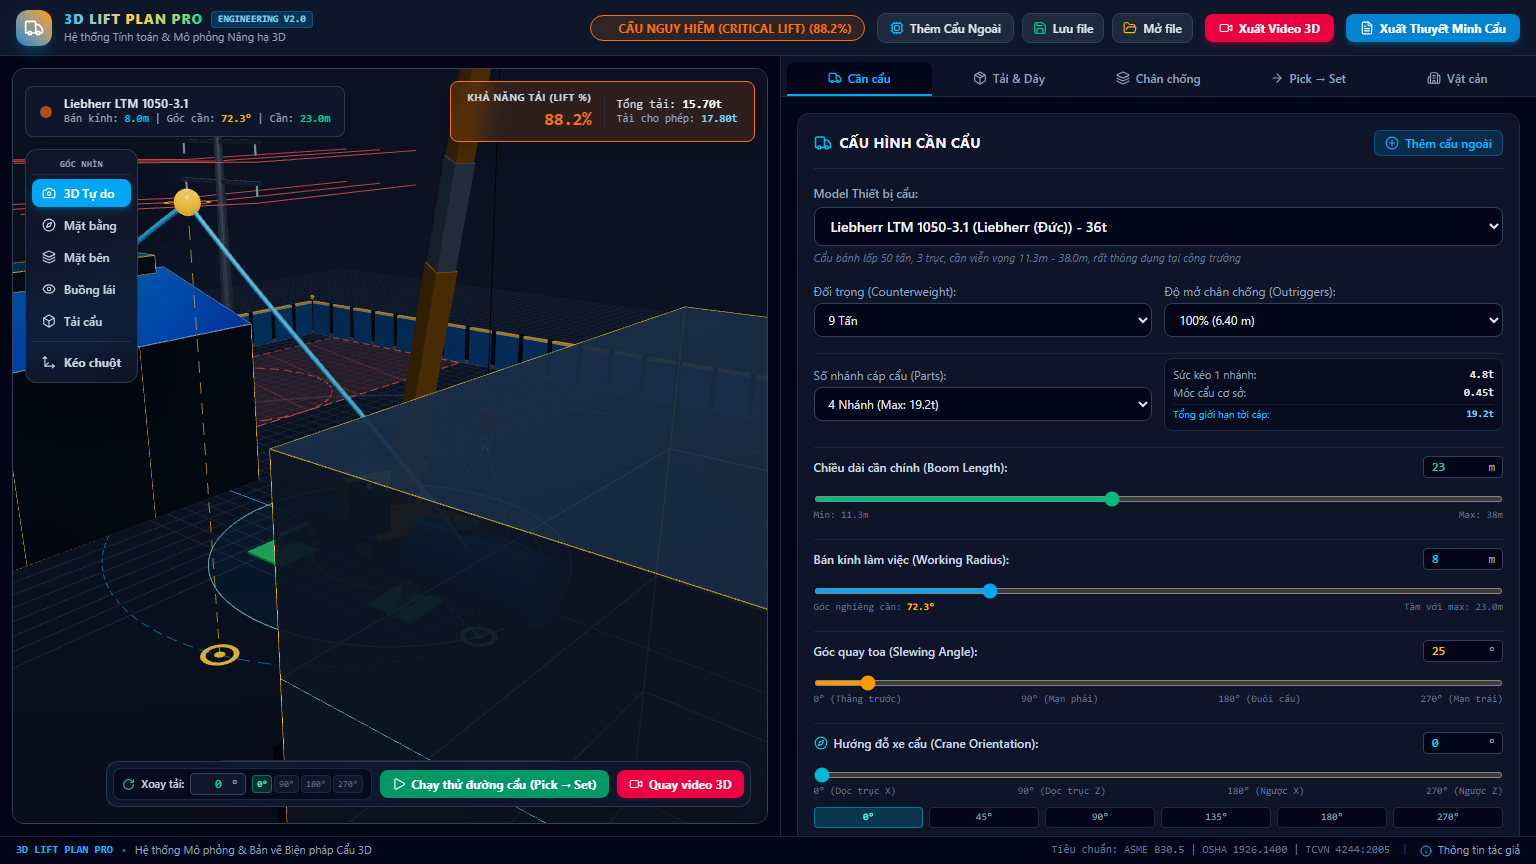
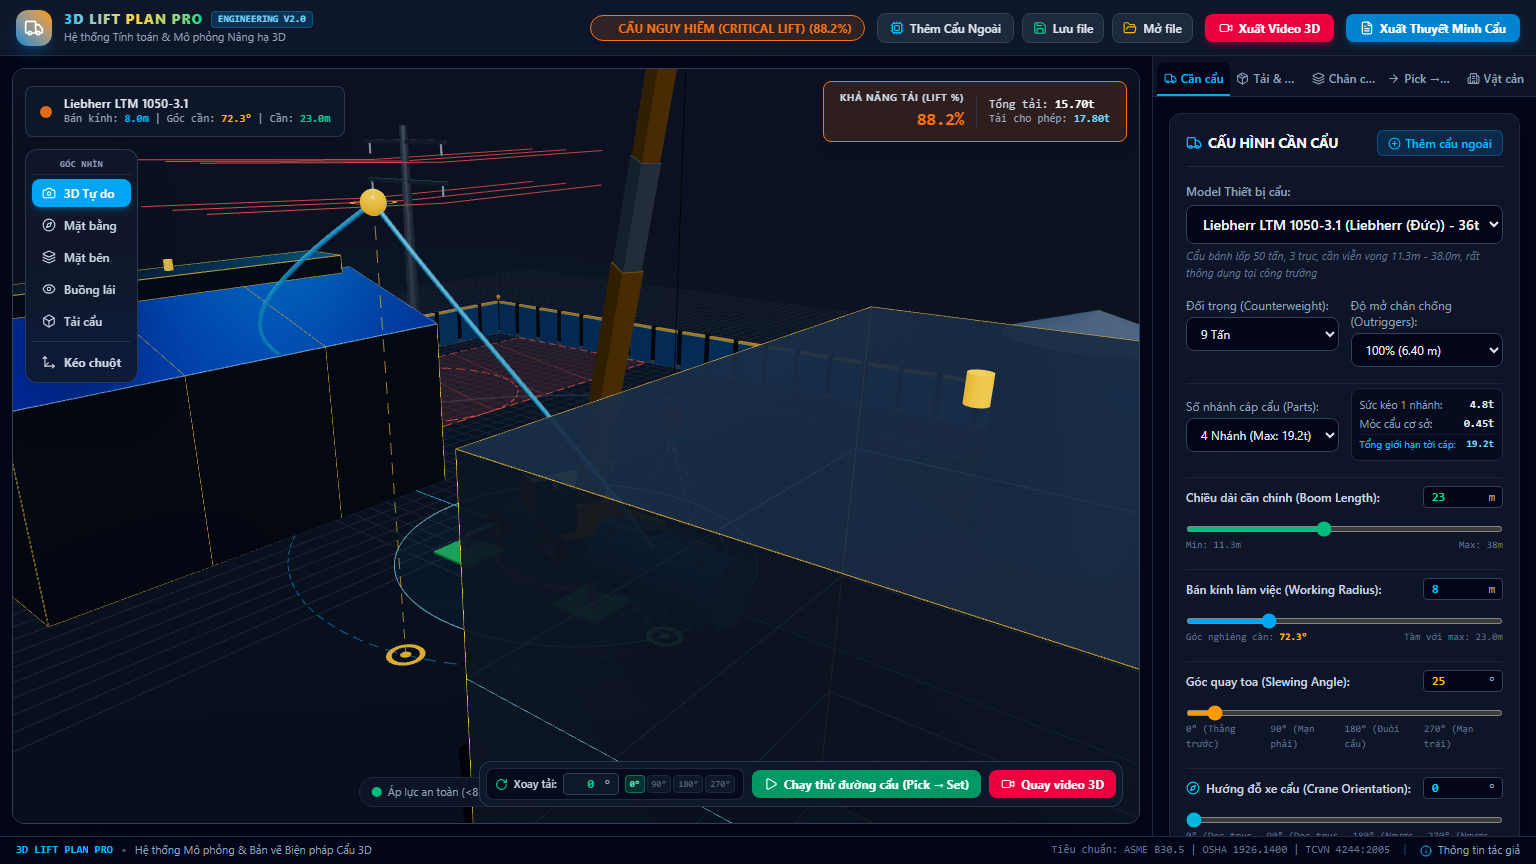
style: toi uu tab dieu khien desktop duoi 25 phan tram man hinh

diff --git a/src/App.jsx b/src/App.jsx
@@ -868,10 +868,10 @@ export default function App() {
           />
         </div>
 
-        {/* Right Side: Engineering Inspector & Control Panels */}
+        {/* Right Side: Engineering Inspector & Control Panels (Không quá 1/4 khung hình trên Desktop) */}
         <div
           className={`
-            w-full lg:w-[460px] xl:w-[500px] border-t lg:border-t-0 lg:border-l border-slate-800 bg-slate-950 flex flex-col z-20 shrink-0 transition-all duration-200
+            w-full lg:w-1/4 lg:max-w-[25%] border-t lg:border-t-0 lg:border-l border-slate-800 bg-slate-950 flex flex-col z-20 shrink-0 transition-all duration-200
             ${mobileViewMode === '3d' ? 'hidden lg:flex' : ''}
             ${mobileViewMode === 'panel' ? 'flex-1 h-full' : ''}
             ${mobileViewMode === 'split' ? 'flex-1 h-[56vh] lg:h-full' : ''}
@@ -894,65 +894,69 @@ export default function App() {
           )}
 
           {/* Navigation Tabs Bar */}
-          <div className="flex items-center border-b border-slate-800 bg-slate-900/80 px-1.5 pt-1.5 gap-1 shrink-0 select-none overflow-x-auto no-scrollbar scroll-smooth">
+          <div id="desktop-inspector-tabs" className="flex items-center border-b border-slate-800 bg-slate-900/80 px-1 pt-1.5 gap-0.5 shrink-0 select-none overflow-x-auto no-scrollbar scroll-smooth">
             <button
               onClick={() => setActiveTab('crane')}
-              className={`flex-1 min-w-0 py-2 px-1 text-xs font-semibold rounded-t-lg transition-all flex items-center justify-center gap-1 sm:gap-1.5 border-b-2 whitespace-nowrap cursor-pointer ${
+              title="Cần cẩu"
+              className={`flex-1 min-w-0 py-1.5 2xl:py-2 px-0.5 2xl:px-1 text-[10px] xl:text-[11px] 2xl:text-xs font-semibold rounded-t-lg transition-all flex flex-col 2xl:flex-row items-center justify-center gap-0.5 2xl:gap-1 border-b-2 whitespace-nowrap cursor-pointer ${
                 activeTab === 'crane'
                   ? 'border-sky-500 bg-slate-950 text-sky-400'
                   : 'border-transparent text-slate-400 hover:text-slate-200'
               }`}
             >
-              <Truck size={14} className="shrink-0" />
+              <Truck size={13} className="shrink-0" />
               <span className="truncate">Cần cẩu</span>
             </button>
 
             <button
               onClick={() => setActiveTab('load')}
-              className={`flex-1 min-w-0 py-2 px-1 text-xs font-semibold rounded-t-lg transition-all flex items-center justify-center gap-1 sm:gap-1.5 border-b-2 whitespace-nowrap cursor-pointer ${
+              title="Tải trọng & Thiết bị chằng buộc"
+              className={`flex-1 min-w-0 py-1.5 2xl:py-2 px-0.5 2xl:px-1 text-[10px] xl:text-[11px] 2xl:text-xs font-semibold rounded-t-lg transition-all flex flex-col 2xl:flex-row items-center justify-center gap-0.5 2xl:gap-1 border-b-2 whitespace-nowrap cursor-pointer ${
                 activeTab === 'load'
                   ? 'border-amber-500 bg-slate-950 text-amber-400'
                   : 'border-transparent text-slate-400 hover:text-slate-200'
               }`}
             >
-              <Package size={14} className="shrink-0" />
+              <Package size={13} className="shrink-0" />
               <span className="truncate">Tải & Dây</span>
             </button>
 
             <button
               onClick={() => setActiveTab('mat')}
-              className={`flex-1 min-w-0 py-2 px-1 text-xs font-semibold rounded-t-lg transition-all flex items-center justify-center gap-1 sm:gap-1.5 border-b-2 whitespace-nowrap cursor-pointer ${
+              title="Áp lực chân chống & Tấm lót"
+              className={`flex-1 min-w-0 py-1.5 2xl:py-2 px-0.5 2xl:px-1 text-[10px] xl:text-[11px] 2xl:text-xs font-semibold rounded-t-lg transition-all flex flex-col 2xl:flex-row items-center justify-center gap-0.5 2xl:gap-1 border-b-2 whitespace-nowrap cursor-pointer ${
                 activeTab === 'mat'
                   ? 'border-emerald-500 bg-slate-950 text-emerald-400'
                   : 'border-transparent text-slate-400 hover:text-slate-200'
               }`}
             >
-              <Layers size={14} className="shrink-0" />
+              <Layers size={13} className="shrink-0" />
               <span className="truncate">Chân chống</span>
             </button>
 
             <button
               onClick={() => setActiveTab('dual_point')}
-              className={`flex-1 min-w-0 py-2 px-1 text-xs font-semibold rounded-t-lg transition-all flex items-center justify-center gap-1 sm:gap-1.5 border-b-2 whitespace-nowrap cursor-pointer ${
+              title="Mô phỏng đường cẩu Pick - Set"
+              className={`flex-1 min-w-0 py-1.5 2xl:py-2 px-0.5 2xl:px-1 text-[10px] xl:text-[11px] 2xl:text-xs font-semibold rounded-t-lg transition-all flex flex-col 2xl:flex-row items-center justify-center gap-0.5 2xl:gap-1 border-b-2 whitespace-nowrap cursor-pointer ${
                 activeTab === 'dual_point'
                   ? 'border-rose-500 bg-slate-950 text-rose-400'
                   : 'border-transparent text-slate-400 hover:text-slate-200'
               }`}
             >
-              <ArrowRight size={14} className="shrink-0" />
+              <ArrowRight size={13} className="shrink-0" />
               <span className="truncate">Pick → Set</span>
             </button>
 
             <button
               onClick={() => setActiveTab('obstacle')}
               title="Vật cản công trình & Vận tốc gió"
-              className={`flex-1 min-w-0 py-2 px-1 text-xs font-semibold rounded-t-lg transition-all flex items-center justify-center gap-1 sm:gap-1.5 border-b-2 whitespace-nowrap cursor-pointer ${
+              className={`flex-1 min-w-0 py-1.5 2xl:py-2 px-0.5 2xl:px-1 text-[10px] xl:text-[11px] 2xl:text-xs font-semibold rounded-t-lg transition-all flex flex-col 2xl:flex-row items-center justify-center gap-0.5 2xl:gap-1 border-b-2 whitespace-nowrap cursor-pointer ${
                 activeTab === 'obstacle'
                   ? 'border-purple-500 bg-slate-950 text-purple-400'
                   : 'border-transparent text-slate-400 hover:text-slate-200'
               }`}
             >
-              <Building2 size={14} className="shrink-0" />
+              <Building2 size={13} className="shrink-0" />
               <span className="truncate">Vật cản</span>
             </button>
           </div>

diff --git a/src/components/ObstacleManager.jsx b/src/components/ObstacleManager.jsx
@@ -233,10 +233,10 @@ export default function ObstacleManager({
         </div>
 
         {/* Balanced Auto-Stretching Action Grid for Adding Obstacles */}
-        <div className="grid grid-cols-5 gap-1.5">
+        <div className="grid grid-cols-5 gap-1">
           <button
             onClick={() => handleAddObstacle('wall')}
-            className="bg-cyan-600/20 hover:bg-cyan-600/30 text-cyan-300 border border-cyan-500/30 py-1.5 px-1 rounded-lg text-xs font-semibold flex items-center justify-center gap-1 transition-all whitespace-nowrap cursor-pointer hover:border-cyan-400/50"
+            className="bg-cyan-600/20 hover:bg-cyan-600/30 text-cyan-300 border border-cyan-500/30 py-1.5 px-0.5 2xl:px-1 rounded-lg text-[10px] xl:text-[11px] 2xl:text-xs font-medium flex flex-col 2xl:flex-row items-center justify-center gap-0.5 2xl:gap-1 transition-all whitespace-nowrap cursor-pointer hover:border-cyan-400/50"
             title="Thêm Hàng rào / Tường bao quanh công trường theo các điểm vây"
           >
             <Fence size={13} className="shrink-0" />
@@ -244,7 +244,7 @@ export default function ObstacleManager({
           </button>
           <button
             onClick={() => handleAddObstacle('workshop')}
-            className="bg-emerald-600/20 hover:bg-emerald-600/30 text-emerald-300 border border-emerald-500/30 py-1.5 px-1 rounded-lg text-xs font-medium flex items-center justify-center gap-1 transition-all whitespace-nowrap cursor-pointer hover:border-emerald-400/50"
+            className="bg-emerald-600/20 hover:bg-emerald-600/30 text-emerald-300 border border-emerald-500/30 py-1.5 px-0.5 2xl:px-1 rounded-lg text-[10px] xl:text-[11px] 2xl:text-xs font-medium flex flex-col 2xl:flex-row items-center justify-center gap-0.5 2xl:gap-1 transition-all whitespace-nowrap cursor-pointer hover:border-emerald-400/50"
             title="Thêm Nhà xưởng kết cấu thép tiền chế (2 mái)"
           >
             <Factory size={13} className="shrink-0" />
@@ -252,7 +252,7 @@ export default function ObstacleManager({
           </button>
           <button
             onClick={() => handleAddObstacle('building')}
-            className="bg-indigo-600/20 hover:bg-indigo-600/30 text-indigo-300 border border-indigo-500/30 py-1.5 px-1 rounded-lg text-xs font-medium flex items-center justify-center gap-1 transition-all whitespace-nowrap cursor-pointer hover:border-indigo-400/50"
+            className="bg-indigo-600/20 hover:bg-indigo-600/30 text-indigo-300 border border-indigo-500/30 py-1.5 px-0.5 2xl:px-1 rounded-lg text-[10px] xl:text-[11px] 2xl:text-xs font-medium flex flex-col 2xl:flex-row items-center justify-center gap-0.5 2xl:gap-1 transition-all whitespace-nowrap cursor-pointer hover:border-indigo-400/50"
             title="Thêm Tòa nhà văn phòng / Nhà điều hành"
           >
             <Building2 size={13} className="shrink-0" />
@@ -260,7 +260,7 @@ export default function ObstacleManager({
           </button>
           <button
             onClick={() => handleAddObstacle('power_pole')}
-            className="bg-amber-600/20 hover:bg-amber-600/30 text-amber-300 border border-amber-500/30 py-1.5 px-1 rounded-lg text-xs font-medium flex items-center justify-center gap-1 transition-all whitespace-nowrap cursor-pointer hover:border-amber-400/50"
+            className="bg-amber-600/20 hover:bg-amber-600/30 text-amber-300 border border-amber-500/30 py-1.5 px-0.5 2xl:px-1 rounded-lg text-[10px] xl:text-[11px] 2xl:text-xs font-medium flex flex-col 2xl:flex-row items-center justify-center gap-0.5 2xl:gap-1 transition-all whitespace-nowrap cursor-pointer hover:border-amber-400/50"
             title="Thêm Trụ / Cột điện cao thế"
           >
             <Zap size={13} className="shrink-0" />
@@ -268,7 +268,7 @@ export default function ObstacleManager({
           </button>
           <button
             onClick={() => handleAddObstacle('cylinder')}
-            className="bg-sky-600/20 hover:bg-sky-600/30 text-sky-300 border border-sky-500/30 py-1.5 px-1 rounded-lg text-xs font-medium flex items-center justify-center gap-1 transition-all whitespace-nowrap cursor-pointer hover:border-sky-400/50"
+            className="bg-sky-600/20 hover:bg-sky-600/30 text-sky-300 border border-sky-500/30 py-1.5 px-0.5 2xl:px-1 rounded-lg text-[10px] xl:text-[11px] 2xl:text-xs font-medium flex flex-col 2xl:flex-row items-center justify-center gap-0.5 2xl:gap-1 transition-all whitespace-nowrap cursor-pointer hover:border-sky-400/50"
             title="Thêm Bồn tròn / Silo chứa"
           >
             <Disc size={13} className="shrink-0" />

diff --git a/src/components/PickSetTrajectoryManager.jsx b/src/components/PickSetTrajectoryManager.jsx
@@ -193,40 +193,39 @@ export default function PickSetTrajectoryManager({
   return (
     <div className="bg-slate-900/90 border border-slate-800 rounded-xl p-4 shadow-xl space-y-4">
       {/* Header */}
-      <div className="border-b border-slate-800 pb-3 flex items-center justify-between">
-        <div className="flex items-center gap-2">
-          <Navigation className="text-rose-400" size={18} />
-          <div>
-            <h2 className="text-sm font-bold text-slate-100 uppercase tracking-wide">
-              Quỹ đạo cẩu đa điểm ({liftPoints.length} Điểm)
+      <div className="border-b border-slate-800 pb-2.5 space-y-2">
+        <div className="flex items-center justify-between">
+          <div className="flex items-center gap-1.5 min-w-0">
+            <Navigation className="text-rose-400 shrink-0" size={16} />
+            <h2 className="text-xs xl:text-sm font-bold text-slate-100 uppercase tracking-tight whitespace-nowrap">
+              Quỹ đạo cẩu ({liftPoints.length} Điểm)
             </h2>
-            <div className="text-[11px] text-slate-400">
-              Đón tải → Các điểm né vật cản trung gian → Đặt tải
-            </div>
+          </div>
+          <div className="flex items-center gap-1.5 shrink-0">
+            <button
+              onClick={handleAddWaypoint}
+              className="bg-sky-600/20 hover:bg-sky-600/30 text-sky-300 border border-sky-500/30 px-2 py-0.5 xl:px-2.5 xl:py-1 rounded-md text-[11px] xl:text-xs font-semibold flex items-center gap-1 transition-colors whitespace-nowrap cursor-pointer"
+              title="Thêm điểm né vật cản / chuyển hướng ở giữa"
+            >
+              <Plus size={12} className="shrink-0" />
+              <span className="hidden sm:inline">+ Điểm giữa</span>
+              <span className="sm:hidden">+ Điểm</span>
+            </button>
+            <button
+              onClick={() => setIsSimulating(!isSimulating)}
+              className={`px-2.5 py-1 rounded-md text-xs font-bold flex items-center gap-1.5 transition-colors shadow whitespace-nowrap shrink-0 cursor-pointer ${
+                isSimulating
+                  ? 'bg-amber-600 hover:bg-amber-500 text-white'
+                  : 'bg-emerald-600 hover:bg-emerald-500 text-white'
+              }`}
+            >
+              {isSimulating ? <Pause size={12} className="shrink-0" /> : <Play size={12} className="shrink-0" />}
+              {isSimulating ? 'Dừng' : 'Mô phỏng'}
+            </button>
           </div>
         </div>
-
-        {/* Action Controls */}
-        <div className="flex items-center gap-1.5 shrink-0">
-          <button
-            onClick={handleAddWaypoint}
-            className="bg-sky-600/20 hover:bg-sky-600/30 text-sky-300 border border-sky-500/30 px-2.5 py-1 rounded-md text-xs font-semibold flex items-center gap-1 transition-colors whitespace-nowrap shrink-0 cursor-pointer"
-            title="Thêm điểm né vật cản / chuyển hướng ở giữa"
-          >
-            <Plus size={13} className="shrink-0" /> Điểm giữa
-          </button>
-
-          <button
-            onClick={() => setIsSimulating(!isSimulating)}
-            className={`px-3 py-1 rounded-md text-xs font-bold flex items-center gap-1.5 transition-colors shadow whitespace-nowrap shrink-0 cursor-pointer ${
-              isSimulating
-                ? 'bg-amber-600 hover:bg-amber-500 text-white'
-                : 'bg-emerald-600 hover:bg-emerald-500 text-white'
-            }`}
-          >
-            {isSimulating ? <Pause size={13} className="shrink-0" /> : <Play size={13} className="shrink-0" />}
-            {isSimulating ? 'Dừng' : 'Mô phỏng'}
-          </button>
+        <div className="text-[10px] xl:text-[11px] text-slate-400 truncate">
+          Đón tải → Điểm né trung gian → Đặt tải
         </div>
       </div>
 

diff --git a/src/components/CraneSelector.jsx b/src/components/CraneSelector.jsx
@@ -31,17 +31,19 @@ export default function CraneSelector({
   return (
     <div className="bg-slate-900/90 border border-slate-800 rounded-xl p-4 shadow-xl space-y-4">
       {/* Header & Crane Dropdown */}
-      <div className="flex items-center justify-between border-b border-slate-800 pb-3">
-        <div className="flex items-center gap-2">
-          <Truck className="text-sky-400" size={18} />
-          <h2 className="text-sm font-bold text-slate-100 uppercase tracking-wide">Cấu hình Cần cẩu</h2>
+      <div className="flex items-center justify-between border-b border-slate-800 pb-2.5">
+        <div className="flex items-center gap-1.5 min-w-0">
+          <Truck className="text-sky-400 shrink-0" size={16} />
+          <h2 className="text-xs xl:text-sm font-bold text-slate-100 uppercase tracking-tight whitespace-nowrap">Cấu hình Cần cẩu</h2>
         </div>
         <button
           onClick={onOpenCustomCraneModal}
-          className="text-xs bg-sky-600/20 hover:bg-sky-600/30 text-sky-400 border border-sky-500/30 px-2.5 py-1 rounded-md font-medium transition-all flex items-center gap-1.5"
+          className="text-[11px] xl:text-xs shrink-0 bg-sky-600/20 hover:bg-sky-600/30 text-sky-400 border border-sky-500/30 px-2 py-0.5 xl:px-2.5 xl:py-1 rounded-md font-medium transition-all flex items-center gap-1"
           title="Thêm loại cẩu hoặc nhập bảng tải từ bên ngoài"
         >
-          <PlusCircle size={14} /> Thêm cẩu ngoài
+          <PlusCircle size={13} />
+          <span className="hidden xl:inline">Thêm cẩu ngoài</span>
+          <span className="xl:hidden">+ Cẩu ngoài</span>
         </button>
       </div>
 
